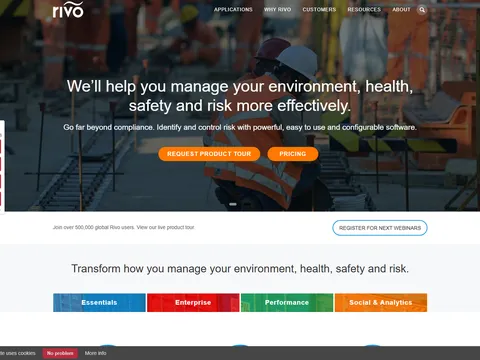
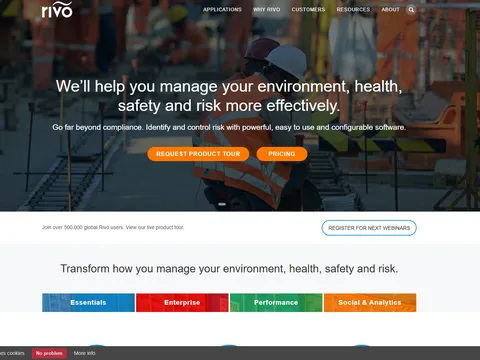
Merge Digital Dudes entries into freelance client work
All archive sites are Austin's own builds; the agency-era distinction
misattributed them.

diff --git a/templates/blocks/archive_grid.php b/templates/blocks/archive_grid.php
@@ -8,9 +8,8 @@ if (!empty($b['limit'])) {
     $entries = array_slice($entries, 0, (int) $b['limit']);
 }
 $eraLabels = [
-    'freelance' => 'Freelance — Denver',
+    'freelance' => 'Freelance client work',
     'studio' => 'Studio & in-house WordPress',
-    'agency' => 'Digital Dudes Marketing',
 ];
 ?>
 <?php if (!empty($b['teaser'])): ?>